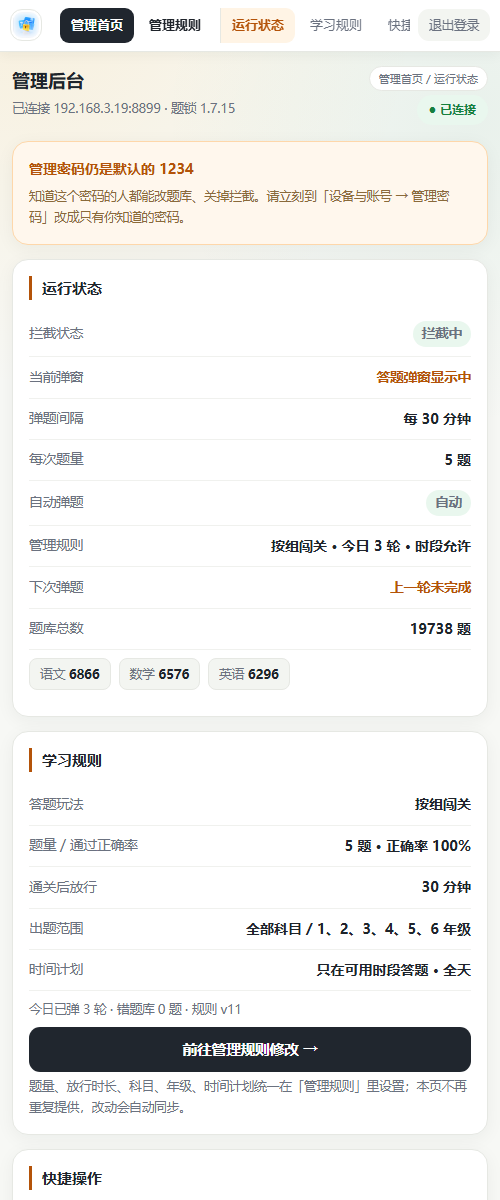
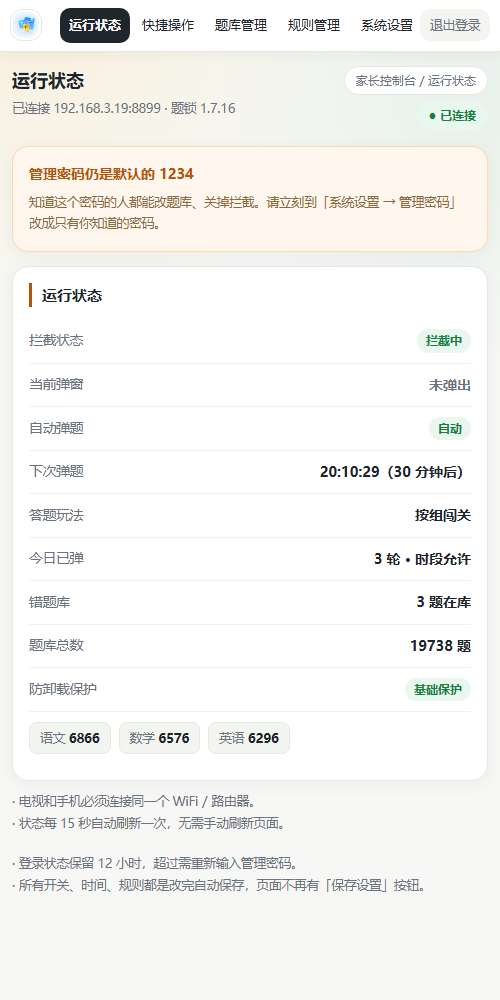
docs: 换 v1.7.16 真机截图并更新后台说明
- 截图全部改为 MuMu 真机 1.7.16 渲染：桌面 1440 / 平板 900 / 手机 500
- README 重写手机管理后台章节与功能表，补「所有设置都自动保存」明细与深链接说明
- 手机端导航收窄内边距，500px 宽度下五项 + 退出登录可以完整并排

diff --git a/app/src/main/assets/admin.html b/app/src/main/assets/admin.html
@@ -205,14 +205,14 @@
     .sb-brand{border:0;margin:0;padding:0;flex:0 0 auto}
     .sb-brand img{width:32px;height:32px}
     .sb-brand b,.sb-brand small{display:none}
-    .sb-nav{display:flex;flex-direction:row;gap:4px;overflow-x:auto;overflow-y:hidden;flex:1;
+    .sb-nav{display:flex;flex-direction:row;gap:3px;overflow-x:auto;overflow-y:hidden;flex:1;
       scrollbar-width:none}
     .sb-nav::-webkit-scrollbar{display:none}
-    .sb-item{flex:0 0 auto;margin:0;padding:7px 11px;font-size:13px;gap:0}
+    .sb-item{flex:0 0 auto;margin:0;padding:7px 9px;font-size:13px;gap:0}
     .sb-item .ic{display:none}
     .sb-foot{border:0;margin:0;padding:0;flex:0 0 auto}
     .sb-foot .dev{display:none}
-    .sb-foot button{width:auto;padding:7px 10px;font-size:12.5px}
+    .sb-foot button{width:auto;padding:7px 9px;font-size:12.5px}
     .content{padding:14px 12px 50px}
     .topbar h1{font-size:18px}
     .f{flex-wrap:wrap}

diff --git a/README.md b/README.md
@@ -4,7 +4,7 @@
 
 ## 界面预览
 
-主要截图取自 **v1.7.15**：电视端为 MuMu 模拟器（Android 15）实机画面，后台为浏览器真实连接设备 8899 端口渲染（电脑 1440px / 平板 900px / 手机 500px 三档视口）。长答案自适应图为 v1.7.10 旧配色，仅用于说明功能。原图都放在 [`docs/screenshots/`](docs/screenshots/)。
+主要截图取自 **v1.7.16**：电视端为 MuMu 模拟器（Android 15）实机画面，后台为浏览器真实连接设备 8899 端口渲染（电脑 1440px / 平板 900px / 手机 500px 三档视口）。长答案自适应图为 v1.7.10 旧配色，仅用于说明功能。原图都放在 [`docs/screenshots/`](docs/screenshots/)。
 
 > **v1.7.12 视觉更新**：参考开源项目 [chadyi/StudyOnTV](https://github.com/chadyi/StudyOnTV) 的界面语言——电视端改为近黑底 + 角落暖橙光晕 + 大圆角卡片 + 方块字母徽标（聚焦时橙色描边与外光），家长端后台改为米白底 + 纯白卡片 + 细边框的浅色管理台。**只改视觉，不动业务逻辑、接口和题库**。
 >
@@ -39,23 +39,24 @@
 
 ![题锁 · 管理后台登录页](docs/screenshots/admin-login.png)
 
-**管理主页（电脑 1440px）** — 左侧固定侧栏分「页面 / 本页内容」两层：页面组高亮当前所在页，本页内容组按顺序列出右侧六块内容（运行状态、学习规则、快捷操作、设备与账号、防卸载保护、题库编辑），点哪一项就定位到哪张卡片；右上角面包屑同步显示「管理首页 / 当前分区」。
+**运行状态（电脑 1440px）** — 左侧只有「运行状态 / 快捷操作 / 题库管理 / 规则管理 / 系统设置」五项，点哪一项右侧就只显示那一块；默认进入只读的运行状态（拦截状态、当前弹窗、下次弹题、今日已弹、错题库、题库与防卸载概况），右上角面包屑同步显示当前位置。
 
-![题锁 · 管理后台主页](docs/screenshots/admin-panel.png)
+![题锁 · 管理后台运行状态](docs/screenshots/admin-panel.png)
 
-**管理规则（电脑 1440px）** — 侧栏「本页内容」四项与右侧四个表单面板一一对应（任务与解锁 / 时间计划 / 答题范围 / 奖励与复习）；桌面端与手机端都不再显示重复页签，内容区窄栏居中，改动自动保存。
+**规则管理（电脑 1440px）** — 任务与解锁 / 时间计划 / 答题范围 / 奖励与复习 四段收在同一分区内，用内容区顶部的分段按钮切换；改动 0.7 秒后自动保存，右上角徽标显示保存状态。
 
 ![题锁 · 管理规则](docs/screenshots/admin-rules.png)
 
-**响应式** — 900px 平板收窄侧栏并改为单列；500px 手机把两层导航合并成**一行**顶部横滑条（页面切换 + 本页分区），规则页不再另起一行页签，切换时当前项自动滚进视野。三档共用同一份 HTML，没有为平板单独做一套页面。
+**系统设置（平板 900px）** — 768–1023px 收窄侧栏、内容区单列，卡片不再被挤成两半。
+
+![题锁 · 平板端后台](docs/screenshots/admin-tablet.png)
+
+**响应式（手机 500px）** — 侧栏退化成一行顶部横滑导航（品牌图标 + 五项 + 退出登录），当前项自动滚进视野；表单行改为「标签在上、控件在下」，规则四段仍用内容区内的分段按钮。
 
 ![题锁 · 手机端后台](docs/screenshots/admin-mobile.png)
 
-![题锁 · 手机端规则页](docs/screenshots/admin-rules-mobile.png)
+![题锁 · 手机端规则管理](docs/screenshots/admin-rules-mobile.png)
 
-**规则管理（v1.7.13 起，v1.7.16 并入单页）** — 左侧「规则管理」进入，四段分别管任务玩法、可用时段 / 周计划、出题范围、错题复习，改动自动保存并立即重排下一轮弹题。
-
-![题锁 · 管理规则](docs/screenshots/admin-rules.png)
 
 ## 功能
 
